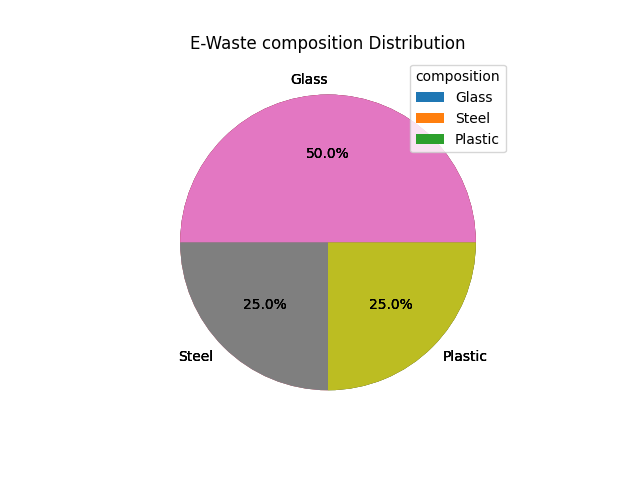
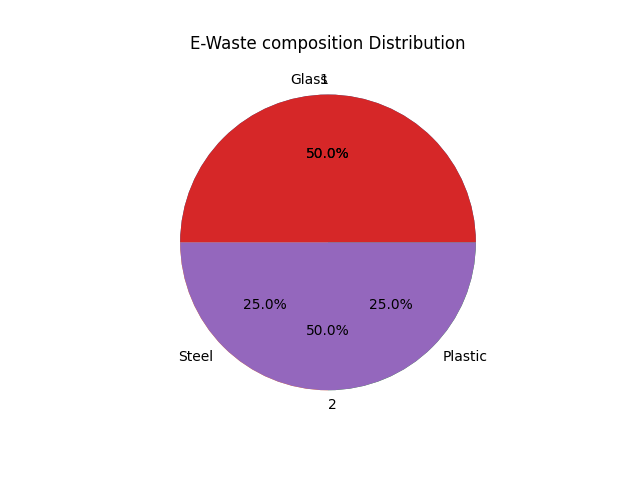
Added delete Item and a couple of changes to other files so delete item can word and also modified create item since the append file is stacking

Changed region(s): [[0.2812, 0.125, 0.7812, 0.8125]]

diff --git a/Final_project_script/Admin_menu.py b/Final_project_script/Admin_menu.py
@@ -1,6 +1,13 @@
 from E_waste_graphs import E_graph, e_file
+from Del_Item import E_admin
+
+
+
 
 Es_obj = E_graph(e_file("E-waste.csv"))
+
+efile = e_file("E-waste.csv")
+Ea_obj = E_admin(efile)
 
 class Admin_menu():
     def __init__ (self, admin):
@@ -9,22 +16,26 @@ class Admin_menu():
     def show_menu(self):
       choice = 0
       
-      while choice != 4:
+      while choice != 3:
           print("\n=====Admin Menu=====\n")
-          print("1. Archive/delete Item")
+          print("1. Delete Item")
           print("2. E-waste Statistics")
-          Es_obj.load_graph("composition")
-          print("3. E-waste Trackings")
-          print("4. Exit\n")
+          print("3. Exit\n")
           
           choice = int(input("Enter a number\n"))
           
           if choice == 1:
-              print("=====Refresh list=====")
+              print("=====Delete Item=====")
+              choice = input("Enter choice: ")
+
+              if choice == "1":
+                column = input("Enter column to match (e.g. Name, composition, recycle_rating): ")
+                value = input(f"Enter the {column} value to delete: ")
+                Ea_obj.delete_item(column, value)
+                Ea_obj.delete_item("Name", "Value")
           elif choice== 2:
               print("=====E-waste Statistic=====")
+              Es_obj.load_graph("composition")
           elif choice == 3:
-              print("=====E-waste Tracking=====") 
-          elif choice == 4:
               print("=====Exit=====")
       

diff --git a/Final_project_script/Del_Item.py b/Final_project_script/Del_Item.py
@@ -1,0 +1,35 @@
+import pandas as pd
+
+
+class e_file:
+    def __init__(self, file="E-waste.csv"):
+        self.file = file
+
+    def load_csv(self):
+        return pd.read_csv(self.file)
+
+    def save_csv(self, data):
+        data.to_csv(self.file, index=False)
+
+class E_admin(e_file):
+    def __init__(self, file: e_file):
+        self.file = file
+
+    def delete_item(self, name, value):
+     data = self.file.load_csv()
+
+     if name not in data.columns:
+        print(f"Column '{name}' not found.")
+        return
+
+     new_data = data[data[name] != value]
+     self.file.save_csv(new_data)
+     print(f"Deleted items where {name} = {value}")
+
+
+   
+
+
+
+ 
+

diff --git a/Final_project_script/E_waste_graphs.py b/Final_project_script/E_waste_graphs.py
@@ -9,6 +9,9 @@ class e_file:
         data = pd.read_csv(self.filename)
         return data
     
+    def save_csv(self, data):
+        data.to_csv(self.filename, index=False)
+    
 class E_graph(e_file):
     def __init__(self, filename: e_file):
         self.filename = filename
@@ -23,7 +26,6 @@ class E_graph(e_file):
 
         plt.pie(counts.values, labels=counts.index, autopct='%1.1f%%')
         plt.title(f"E-Waste {Name} Distribution")
-        plt.legend(counts.index, title=Name, loc="best")
         plt.savefig("ewaste_graph.png")
        
        

diff --git a/Final_project_script/Create_file.py b/Final_project_script/Create_file.py
@@ -1,0 +1,14 @@
+import os, csv
+
+class Create_file:
+    def __init__(self, filename="E-waste.csv"):
+        self.filename = filename
+
+    def newfile(self):
+        # Only create header if file does not exist yet
+        if not os.path.exists(self.filename):
+            with open(self.filename, "a", newline="") as my_file:
+                write = csv.writer(my_file)
+                write.writerow([
+                    "Name", "components", "composition",
+                    "condition", "net_weight", "hazard", "recycle_rating" ])

diff --git a/Final_project_script/Create_item.py b/Final_project_script/Create_item.py
@@ -1,13 +1,5 @@
 import os, csv
-
-class Create_file():
-    def __init__(self, filename="E-waste.csv"):
-        self.filename = filename
-
-    def newfile(self):
-            with open(self.filename, "a", newline="") as my_file:
-                write = csv.writer(my_file)
-                write.writerow(["Name", "components", "composition", "condition", "net_weight", "hazard", "recycle_rating"])
+from Create_file import Create_file
 
 
 class Create_item(Create_file):

diff --git a/Final_project_script/main.py b/Final_project_script/main.py
@@ -6,6 +6,8 @@ create_obj = Create_account()
 login_obj = login()
 admin_obj = Admin()
 
+
+
 admin_obj.newfile("Admin", "TIPadmin2026", "123456")
 
 choice = 0
